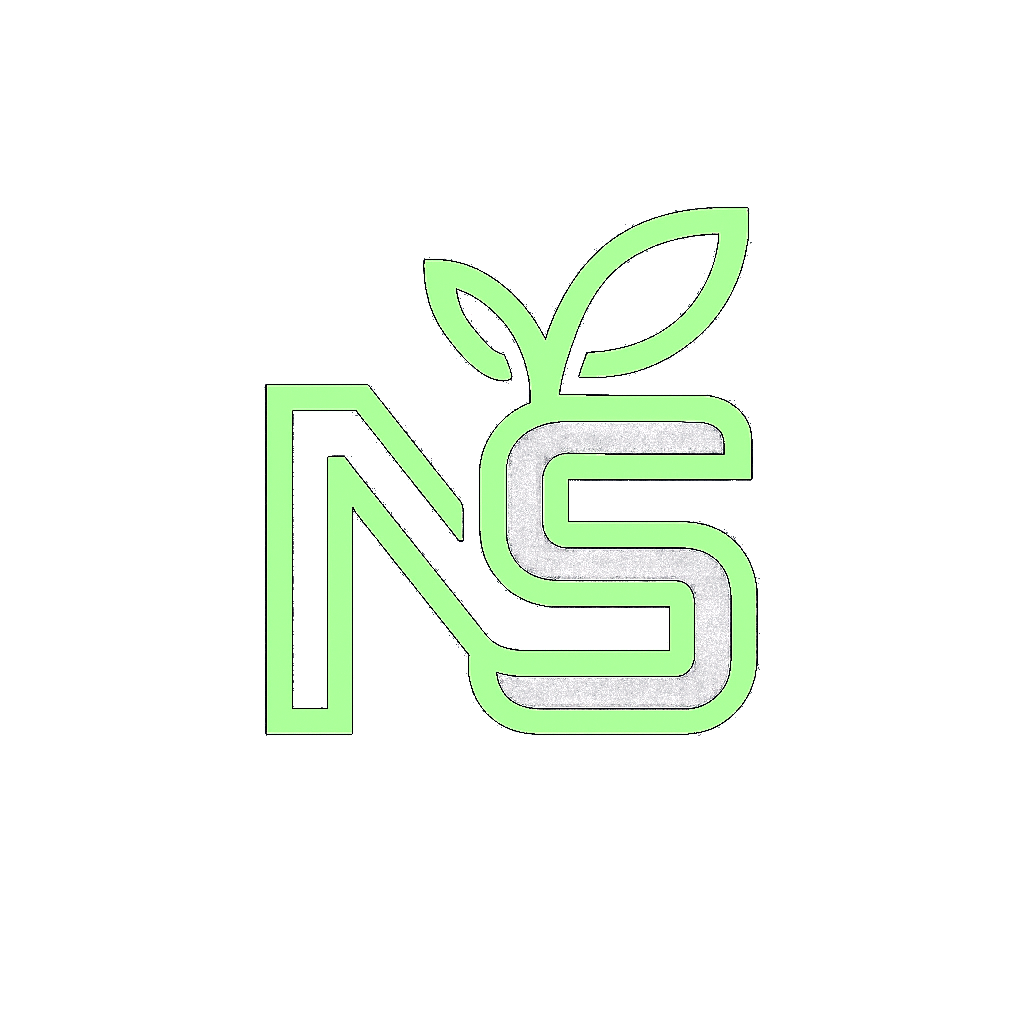
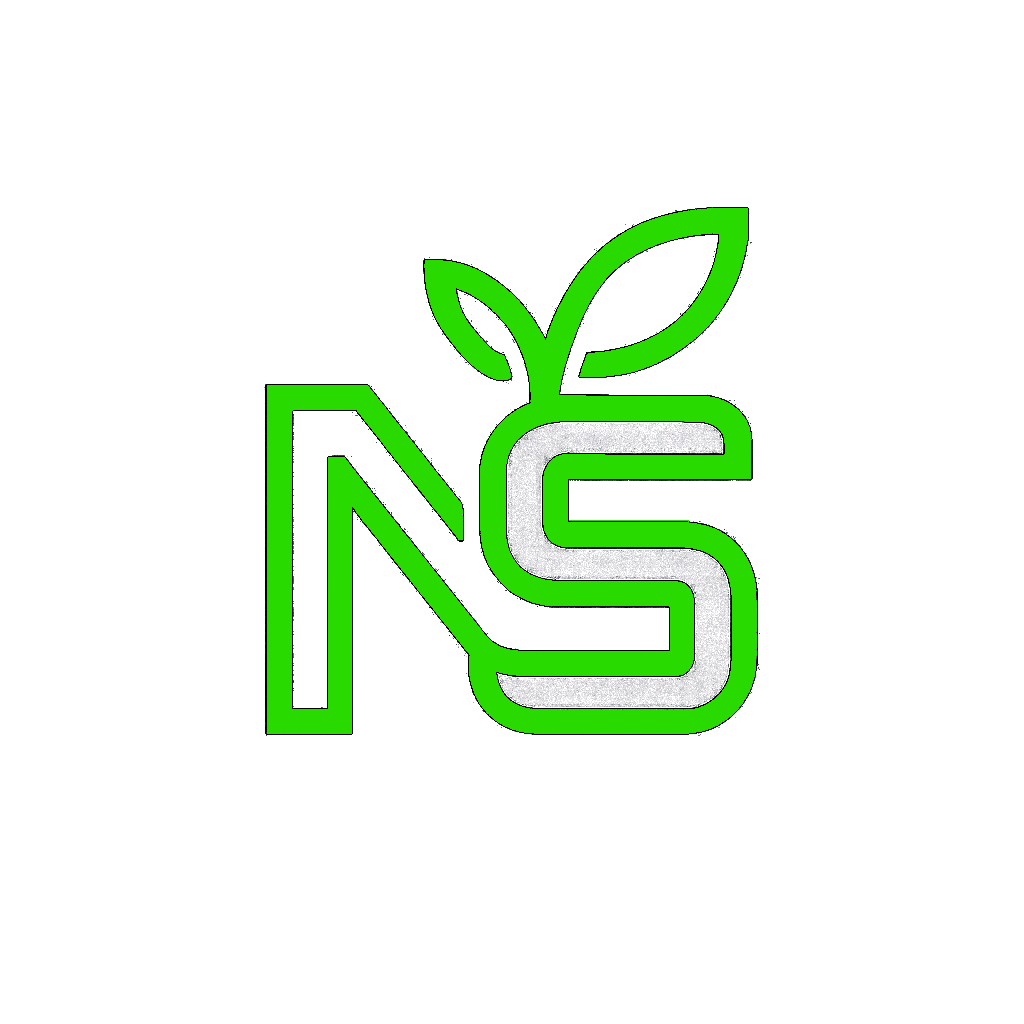
Style and link updates

Changed region(s): [[0.25, 0.1875, 0.75, 0.7188]]

diff --git a/portfolio2/src/images/splitters/bottom-wave-2.js b/portfolio2/src/images/splitters/bottom-wave-2.js
@@ -1,5 +1,5 @@
 export default function Logo({ fillColor }) {
     return (
-        <svg className="split-svg split-svg-wave-2" xmlns="http://www.w3.org/2000/svg" viewBox="0 0 1280 271"  fill="none"><g clip-path="url(#a)"><path fill="#fff" d="M939.48 215.85C651.826 337.259 323.842-196.119-36.651 145.565L-64.156-602.34l1507.336 17.535V382.12s-216.05-287.68-503.7-166.27Z"/><mask id="b" width="1509" height="985" x="-65" y="-601" maskUnits="userSpaceOnUse" ><path fill="#fff" d="M939.48 217.205c-287.654 121.41-615.638-411.969-976.131-70.284l-27.505-747.905L1443.18-583.45v966.926s-216.05-287.68-503.7-166.271Z"/></mask><g mask="url(#b)"><g filter="url(#c)"><path fill="url(#d)" d="M862.881 121.244c189.609-143.071 382.649-51.638 455.069 43.465v223.853s-165.28-68.347-276.1-65.871c-67.907 1.518-103.26 29.532-171.171 30.877-76.306 1.512-116.792-26.38-192.98-30.877-193.317-11.41-260.681 126.563-454.262 115.687-62.786-3.528-150.469-97.623-194.216-144.974v-89.749S47.919 20.189 328.266 64.74c280.347 44.551 345.011 199.575 534.615 56.504Z"/></g><g filter="url(#e)"><path fill="#98FF98" d="M953.432 152.03C1113.53 39.022 1279.7 94.544 1319.64 192.701c39.94 98.158-19.68 278.839-19.68 278.839s-109.37-49.434-184.32-60.35c-97.51-14.201-187.914 28.142-254.35 29.793-88.102 2.189-132.694-47.483-221.42-59.537-171.026-23.235-246.076 67.741-439.15 49.781-62.621-5.825-143.601-44.437-185.59-93.34l4.992-136.12s247.656-161.659 460.995-88.856c213.339 72.804 312.22 152.127 472.315 39.119Z"/></g></g></g><defs><filter id="c" width="1333.55" height="436.764" x="-12.886" y="25.994" color-interpolation-filters="sRGB" filterUnits="userSpaceOnUse"><feFlood flood-opacity="0" result="BackgroundImageFix"/><feColorMatrix in="SourceAlpha" result="hardAlpha" values="0 0 0 0 0 0 0 0 0 0 0 0 0 0 0 0 0 0 127 0"/><feOffset dx="-19.695" dy="1.358"/><feGaussianBlur stdDeviation="11.206"/><feComposite in2="hardAlpha" operator="out"/><feColorMatrix values="0 0 0 0 0.215686 0 0 0 0 0.0392157 0 0 0 0 0.470588 0 0 0 0.1 0"/><feBlend in2="BackgroundImageFix" result="effect1_dropShadow_14304_293695"/><feBlend in="SourceGraphic" in2="effect1_dropShadow_14304_293695" result="shape"/></filter><filter id="e" width="1402.31" height="466.332" x="-47.168" y="34.91" color-interpolation-filters="sRGB" filterUnits="userSpaceOnUse"><feFlood flood-opacity="0" result="BackgroundImageFix"/><feColorMatrix in="SourceAlpha" result="hardAlpha" values="0 0 0 0 0 0 0 0 0 0 0 0 0 0 0 0 0 0 127 0"/><feOffset dx="-20.284" dy="-12.315"/><feGaussianBlur stdDeviation="21.008"/><feComposite in2="hardAlpha" operator="out"/><feColorMatrix values="0 0 0 0 0.237202 0 0 0 0 0.0170869 0 0 0 0 0.554167 0 0 0 0.36 0"/><feBlend in2="BackgroundImageFix" result="effect1_dropShadow_14304_293695"/><feBlend in="SourceGraphic" in2="effect1_dropShadow_14304_293695" result="shape"/></filter><linearGradient id="d" x1="1099.04" x2="362.363" y1="93.759" y2="292.645" gradientUnits="userSpaceOnUse"><stop stop-color="#98FF98"/><stop offset="1" stop-color="#7dd37d"/></linearGradient><clipPath id="a"><path fill="#fff" d="M0 .268h1280v270H0z"/></clipPath></defs></svg>
+        <svg className="split-svg split-svg-wave-2" xmlns="http://www.w3.org/2000/svg" viewBox="0 0 1280 271"  fill="none"><g clip-path="url(#a)"><path fill="#fff" d="M939.48 215.85C651.826 337.259 323.842-196.119-36.651 145.565L-64.156-602.34l1507.336 17.535V382.12s-216.05-287.68-503.7-166.27Z"/><mask id="b" width="1509" height="985" x="-65" y="-601" maskUnits="userSpaceOnUse" ><path fill="#fff" d="M939.48 217.205c-287.654 121.41-615.638-411.969-976.131-70.284l-27.505-747.905L1443.18-583.45v966.926s-216.05-287.68-503.7-166.271Z"/></mask><g mask="url(#b)"><g filter="url(#c)"><path fill="url(#d)" d="M862.881 121.244c189.609-143.071 382.649-51.638 455.069 43.465v223.853s-165.28-68.347-276.1-65.871c-67.907 1.518-103.26 29.532-171.171 30.877-76.306 1.512-116.792-26.38-192.98-30.877-193.317-11.41-260.681 126.563-454.262 115.687-62.786-3.528-150.469-97.623-194.216-144.974v-89.749S47.919 20.189 328.266 64.74c280.347 44.551 345.011 199.575 534.615 56.504Z"/></g><g filter="url(#e)"><path fill="#28da00" d="M953.432 152.03C1113.53 39.022 1279.7 94.544 1319.64 192.701c39.94 98.158-19.68 278.839-19.68 278.839s-109.37-49.434-184.32-60.35c-97.51-14.201-187.914 28.142-254.35 29.793-88.102 2.189-132.694-47.483-221.42-59.537-171.026-23.235-246.076 67.741-439.15 49.781-62.621-5.825-143.601-44.437-185.59-93.34l4.992-136.12s247.656-161.659 460.995-88.856c213.339 72.804 312.22 152.127 472.315 39.119Z"/></g></g></g><defs><filter id="c" width="1333.55" height="436.764" x="-12.886" y="25.994" color-interpolation-filters="sRGB" filterUnits="userSpaceOnUse"><feFlood flood-opacity="0" result="BackgroundImageFix"/><feColorMatrix in="SourceAlpha" result="hardAlpha" values="0 0 0 0 0 0 0 0 0 0 0 0 0 0 0 0 0 0 127 0"/><feOffset dx="-19.695" dy="1.358"/><feGaussianBlur stdDeviation="11.206"/><feComposite in2="hardAlpha" operator="out"/><feColorMatrix values="0 0 0 0 0.215686 0 0 0 0 0.0392157 0 0 0 0 0.470588 0 0 0 0.1 0"/><feBlend in2="BackgroundImageFix" result="effect1_dropShadow_14304_293695"/><feBlend in="SourceGraphic" in2="effect1_dropShadow_14304_293695" result="shape"/></filter><filter id="e" width="1402.31" height="466.332" x="-47.168" y="34.91" color-interpolation-filters="sRGB" filterUnits="userSpaceOnUse"><feFlood flood-opacity="0" result="BackgroundImageFix"/><feColorMatrix in="SourceAlpha" result="hardAlpha" values="0 0 0 0 0 0 0 0 0 0 0 0 0 0 0 0 0 0 127 0"/><feOffset dx="-20.284" dy="-12.315"/><feGaussianBlur stdDeviation="21.008"/><feComposite in2="hardAlpha" operator="out"/><feColorMatrix values="0 0 0 0 0.237202 0 0 0 0 0.0170869 0 0 0 0 0.554167 0 0 0 0.36 0"/><feBlend in2="BackgroundImageFix" result="effect1_dropShadow_14304_293695"/><feBlend in="SourceGraphic" in2="effect1_dropShadow_14304_293695" result="shape"/></filter><linearGradient id="d" x1="1099.04" x2="362.363" y1="93.759" y2="292.645" gradientUnits="userSpaceOnUse"><stop stop-color="#28da00"/><stop offset="1" stop-color="#7dd37d"/></linearGradient><clipPath id="a"><path fill="#fff" d="M0 .268h1280v270H0z"/></clipPath></defs></svg>
     );
   }

diff --git a/portfolio2/src/App.js b/portfolio2/src/App.js
@@ -128,23 +128,23 @@ function App() {
             <ul className={`nav-list${openNav? ' list-open':''}${isSecondaryColor? ' gray-list':''}${animate ? ' show-nav' : ''}`} >
               <li className="nav-li">
                 <Link onClick={()=> setPage('/')} to="/" className={path == '/'?'nav-link active':'nav-link'} >Intro<span>Intro</span></Link>
-                <div className={path == '/'?'nav-underline underline active':'nav-underline underline'} ><DotUnderline fillColor={'#98FF98'} /></div>
+                <div className={path == '/'?'nav-underline underline active':'nav-underline underline'} ><DotUnderline fillColor={'#28da00'} /></div>
               </li>
               <li className="nav-li">
                 <Link onClick={()=> setPage('/services')} to="/services" className={path == '/services'?'nav-link active':'nav-link'} >Services<span>Services</span></Link>
-                <div className={path == '/services'?'nav-underline underline active':'nav-underline underline'} ><DotUnderline fillColor={'#98FF98'} /></div>
+                <div className={path == '/services'?'nav-underline underline active':'nav-underline underline'} ><DotUnderline fillColor={'#28da00'} /></div>
               </li>
               <li className="nav-li">
                 <Link onClick={()=> setPage('/projects')} to="/projects" className={path == '/projects'?'nav-link active':'nav-link'} >Projects<span style={{whiteSpace:'nowrap'}}>Projects</span></Link>
-                <div className={path == '/projects'?'nav-underline underline active':'nav-underline underline'} ><DotUnderline fillColor={'#98FF98'} /></div>
+                <div className={path == '/projects'?'nav-underline underline active':'nav-underline underline'} ><DotUnderline fillColor={'#28da00'} /></div>
               </li>
               <li className="nav-li">
                 <Link onClick={()=> setPage('/skills')} to="/skills" className={path == '/skills'?'nav-link active':'nav-link'} >Skills & Certs<span style={{whiteSpace:'nowrap'}}>Skills & Certs</span></Link>
-                <div className={path == '/skills'?'nav-underline underline active':'nav-underline underline'} ><DotUnderline fillColor={'#98FF98'} /></div>
+                <div className={path == '/skills'?'nav-underline underline active':'nav-underline underline'} ><DotUnderline fillColor={'#28da00'} /></div>
               </li>
               <li className="nav-li">
                 <Link onClick={()=> setPage('/experience')} to="/experience" className={path == '/experience'?'nav-link active':'nav-link'} >Experience<span>Experience</span></Link>
-                <div className={path == '/experience'?'nav-underline underline active':'nav-underline underline'} ><DotUnderline fillColor={'#98FF98'} /></div>
+                <div className={path == '/experience'?'nav-underline underline active':'nav-underline underline'} ><DotUnderline fillColor={'#28da00'} /></div>
               </li>
               
             </ul>

diff --git a/portfolio2/src/components/Home.js b/portfolio2/src/components/Home.js
@@ -58,7 +58,7 @@ const Home = () => {
 
 
     return (
-    <div className="content-container">
+    <div className="content-container home">
         <div className="section-container">
             <div className="section-content home-first-content">
             <div  data-aos="fade-right" data-aos-duration="2000" data-aos-anchor-placement="top-bottom" data-aos-delay="1000" data-aos-easing="ease-out-back">
@@ -66,13 +66,14 @@ const Home = () => {
                 </div>
                 <p className="home-indent" data-aos="flip-left" data-aos-duration="2000" data-aos-anchor-placement="top-bottom" data-aos-delay="3000" data-aos-easing="ease-out-back">Learn, create, collaborate, and grow.</p>
                 <p className="home-indent home-indent-two" data-aos="flip-left" data-aos-duration="2000" data-aos-anchor-placement="left" data-aos-delay="3000" data-aos-easing="ease-out-back">The solution expert.</p>
+                <a href="https://www.strickerdigital.com" class="header-btn btn-gradient mt-10 w-full transition-all duration-300 ease-in-out text-2xl md:text-3xl px-16 py-3 rounded-full focus:outline-none bg-purple-custom text-white hover:bg-language-hover">Get your free landing page</a>
                 <div className="home-main-image"></div>
                 <div className="home-main-image home-main-image-2" ></div>
                     {/* <img id='pfp' src={PfpThree} alt='Nick S profile picture' /> */}
                 
             </div>
         </div>
-        <SplitLine fillColor={'#98FF98'} />
+        <SplitLine fillColor={'#28da00'} />
         <div className="page-split-padding-light"></div>
         <div className="section-container section-container-white home-second-conatiner">
             <div className="section-content" data-aos="fade-left">
@@ -81,7 +82,7 @@ const Home = () => {
                 <p>{summary12}</p>
             </div>
         </div>
-        <SplitTwo fillColor={'#98FF98'} />
+        <SplitTwo fillColor={'#28da00'} />
         <div className="page-split-padding-dark split-wave-2"></div>
         <div className="section-container home-bottom-conatiner">
             <div className="section-content" data-aos="fade-right">

diff --git a/portfolio2/src/components/services/Services.js b/portfolio2/src/components/services/Services.js
@@ -17,7 +17,7 @@ const Services = ({ setPage }) => {
   };
   const servicesList = [
     {
-      name: 'One-Page Booking Websites',
+      name: 'Free One-Page Booking Websites',
       icon: faImage,
       description: 'Clean, fast, responsive landing pages to help you land clients and launch your brand.',
     },
@@ -51,6 +51,7 @@ const Services = ({ setPage }) => {
         <div>
 
           <a href="https://www.strickerdigital.com" class="btn-gradient mt-10 w-full transition-all duration-300 ease-in-out text-2xl md:text-3xl px-16 py-3 rounded-full focus:outline-none bg-purple-custom text-white hover:bg-language-hover">Get your free landing page</a>
+          <a href="https://www.strickerdigital.com/core" class="btn-gradient ml mt-10 w-full transition-all duration-300 ease-in-out text-2xl md:text-3xl px-16 py-3 rounded-full focus:outline-none bg-purple-custom text-white hover:bg-language-hover">Build a Multi-page feature rich platform</a>
         </div>
         <div className="services-grid">
           {servicesList.map((service, index) => (
@@ -75,7 +76,7 @@ const Services = ({ setPage }) => {
           <h2>Are you opposed to a chat?</h2>
           <strong>If not,</strong>
           {/* <a class="nav-contact page-contact" href="/contact">Contact Me<span class="nav-contact-overlay"></span></a> */}
-          <Link onClick={()=> setPage('/contact')} to="https://calendly.com/nickstrickerbiz/30min-1" className="nav-contact page-contact">Let's get started<span className="nav-contact-overlay"></span></Link>
+          <Link  to="https://calendly.com/nickstrickerbiz/30min-1" className="nav-contact page-contact">Let's get started<span className="nav-contact-overlay"></span></Link>
         </div>
       </div>
     </div>

diff --git a/portfolio2/src/App.css b/portfolio2/src/App.css
@@ -17,14 +17,18 @@
   --second-background:rgb(60,62,70);
   /* --second-background:#3f3f3f; */
   --main-text:whitesmoke;
-  --main-accent: #98FF98;
+  --main-accent: #28da00;
   /* --main-dark-accent.container:#5e9e5e; */
-  --main-dark-accent: linear-gradient(to right, 60% #98FF98, 40% #7dd37d);
-  --main-darker-accent:#69b569;
-  --main-darkest-accent:#4a7e4a;
+  --main-dark-accent: linear-gradient(to right, 60% #1ea100, 40% #c57104);
+  --main-darker-accent:#1ea100;
+  --main-darkest-accent:rgb(50, 85, 50);
   --strickdig-green: #1ea100;
   --strickdig-orange: #c57104;
   --ff0000: #ff0000;
+}
+.header-btn{
+  display: flex !important;
+  width:fit-content !important
 }
 *:not(svg):not(.icon-btn){
   box-sizing: border-box;
@@ -85,8 +89,11 @@ a, a span{
 }
 .section-container{
   width:100%;
-  margin: 0 ;
+  display: flex;
+  margin: 0 auto;
   padding: 1px;
+  justify-content: center;
+  align-self: center;
 }
 .section-content{
   margin: 0 auto;
@@ -417,7 +424,10 @@ margin-top:0.5rem;
   .section-content{
     margin-right:0;
     margin-left:0;
-    width: calc(100% - 20px);
+    width: calc(100% - 14px);
+  }
+  .home .section-content{
+    width: calc(100% - 36px);
   }
   .nav-list{
     display: none;

diff --git a/portfolio2/src/images/splitters/bottom-wave-3.js b/portfolio2/src/images/splitters/bottom-wave-3.js
@@ -1,5 +1,5 @@
 
-export default function Logo({ fillColor='rgb(152, 255, 152)' }) {
+export default function Logo({ fillColor='#28da00' }) {
     return (
         
         <svg className="split-svg split-svg-wave-2 footer-wave"  xmlns="http://www.w3.org/2000/svg"  fill="none" viewBox="0 0 1024 562">
@@ -13,11 +13,11 @@ export default function Logo({ fillColor='rgb(152, 255, 152)' }) {
         <defs>
         <linearGradient id="paint0_linear_9174_234436" x1="477.172" x2="347.405" y1="357.335" y2="-15.236" gradientUnits="userSpaceOnUse">
         <stop stop-color={fillColor}/>
-        <stop offset="1" stop-color="rgb(152, 255, 152)"/>
+        <stop offset="1" stop-color="#28da00"/>
         </linearGradient>
         <linearGradient id="paint1_linear_9174_234436" x1="894.45" x2="364.156" y1="146.14" y2="344.71" gradientUnits="userSpaceOnUse">
-        <stop stop-color="rgb(152, 255, 152)"/>
-        <stop offset="1" stop-color="rgb(152, 255, 152)"/>
+        <stop stop-color="#28da00"/>
+        <stop offset="1" stop-color="#28da00"/>
         </linearGradient>
         <clipPath id="clip0_9174_234436">
         <path fill="#fff" d="M-128 0h1280v561.333H-128z"/>

diff --git a/portfolio2/src/components/Projects/Project.js b/portfolio2/src/components/Projects/Project.js
@@ -21,7 +21,7 @@ const Project = (props) => {
         <div className={`project-container item proj-item-${props.index}`} onClick={handleProjClick}>
             <div className="img-back"></div>
             <div className={`img-overflow`} >
-            <WaveSvg fillColor={'#98FF98'} index={props.index}/>
+            <WaveSvg fillColor={'#28da00'} index={props.index}/>
             </div>
             <div className="img-overlay">
                 <span>{name}</span>
@@ -33,7 +33,7 @@ const Project = (props) => {
              </div>
             
             <div className="svg-contain">
-                <ArrowSvg fillColor={'#98FF98'} index={props.index}/>
+                <ArrowSvg fillColor={'#28da00'} index={props.index}/>
                 <FontAwesomeIcon icon={faArrowRight} />
                 {/* <div className="svg-text">{'More'}</div> */}
                 {/* <img className="svg-text" src={arrow} /> */}

diff --git a/portfolio2/src/components/services/Services.scss b/portfolio2/src/components/services/Services.scss
@@ -87,6 +87,9 @@ transition: border  0.3s ease, transform 0.3s ease;
       color: white;
     }
   }
+  .ml{
+    margin-left: 3rem;
+  }
 .cta-section strong{
   margin-right: 1rem;
 }
@@ -110,7 +113,9 @@ transition: border  0.3s ease, transform 0.3s ease;
       display: flex;
       align-items: center;
       margin-bottom: 0.9em;
+      gap: 30px;
     }
+    
     .custom-list li strong {
       font-weight: bold;
       // color: var(--main-accent); /* Purple-ish */
@@ -165,6 +170,9 @@ animation: gradientAnimation 15s ease infinite;
       .cta-section a{
         margin-top:2rem;
       }
+      .ml{
+    margin-left: 0;
+  }
   } 
 }
 

diff --git a/portfolio2/src/components/footer/Footer.js b/portfolio2/src/components/footer/Footer.js
@@ -37,7 +37,7 @@ const Footer = ({setPage}) => {
             <Nextbutton  setPage={setPage}/>
             <SplitThree fillColor={footerColor} />
             <div className="page-split-padding-dark split-wave-3" style={{background:footerColor}}></div>
-            <div className="footer-content" data-aos="fade-right">
+            <div className="footer-content" >
                 <div className="icon-btn">
                 <FontAwesomeIcon icon={faGithub}  target="_blank" onClick={() => window.open('https://github.com/NickStrick')}/>
                 </div>

diff --git a/portfolio2/src/components/footer/Footer.scss b/portfolio2/src/components/footer/Footer.scss
@@ -201,12 +201,12 @@
     min-width:280px;
 }
 @media (max-width: 900px){
-.next-button{
-    position: absolute;
-    top: 2rem;
-    right:1vw;
-    width:98vw;
-    z-index: 1000;
-}
+    .next-button{
+        position: absolute;                                                                                                                                                                                                                               
+        top: 2rem;
+        right:6vw;
+        width:88vw;
+        z-index: 1000;
+    }
 }
 

diff --git a/portfolio2/src/components/contact/Contact.scss b/portfolio2/src/components/contact/Contact.scss
@@ -6,6 +6,7 @@
     justify-content: space-around;
     flex-wrap: wrap;
     z-index: 1;
+    margin: 0 auto;
 }
 .contact-content .section-column{
     width:50%;
@@ -284,6 +285,7 @@ input:-webkit-autofill:active{
         height: auto;
         display: flex;
         background-color: transparent;
+        margin-left:15vw; 
     }
     .span-block{
         font-size: 30px;

diff --git a/portfolio2/src/components/styles/animations.scss b/portfolio2/src/components/styles/animations.scss
@@ -54,7 +54,7 @@
 //     }
 // }
 
-$primary: #98FF98;
+$primary: #28da00;
 $primary-ultralight: mix(white, $primary, 80%);
 $primary-light: mix(white, $primary, 20%);
 $primary-dark: mix(black, $primary, 25%);
